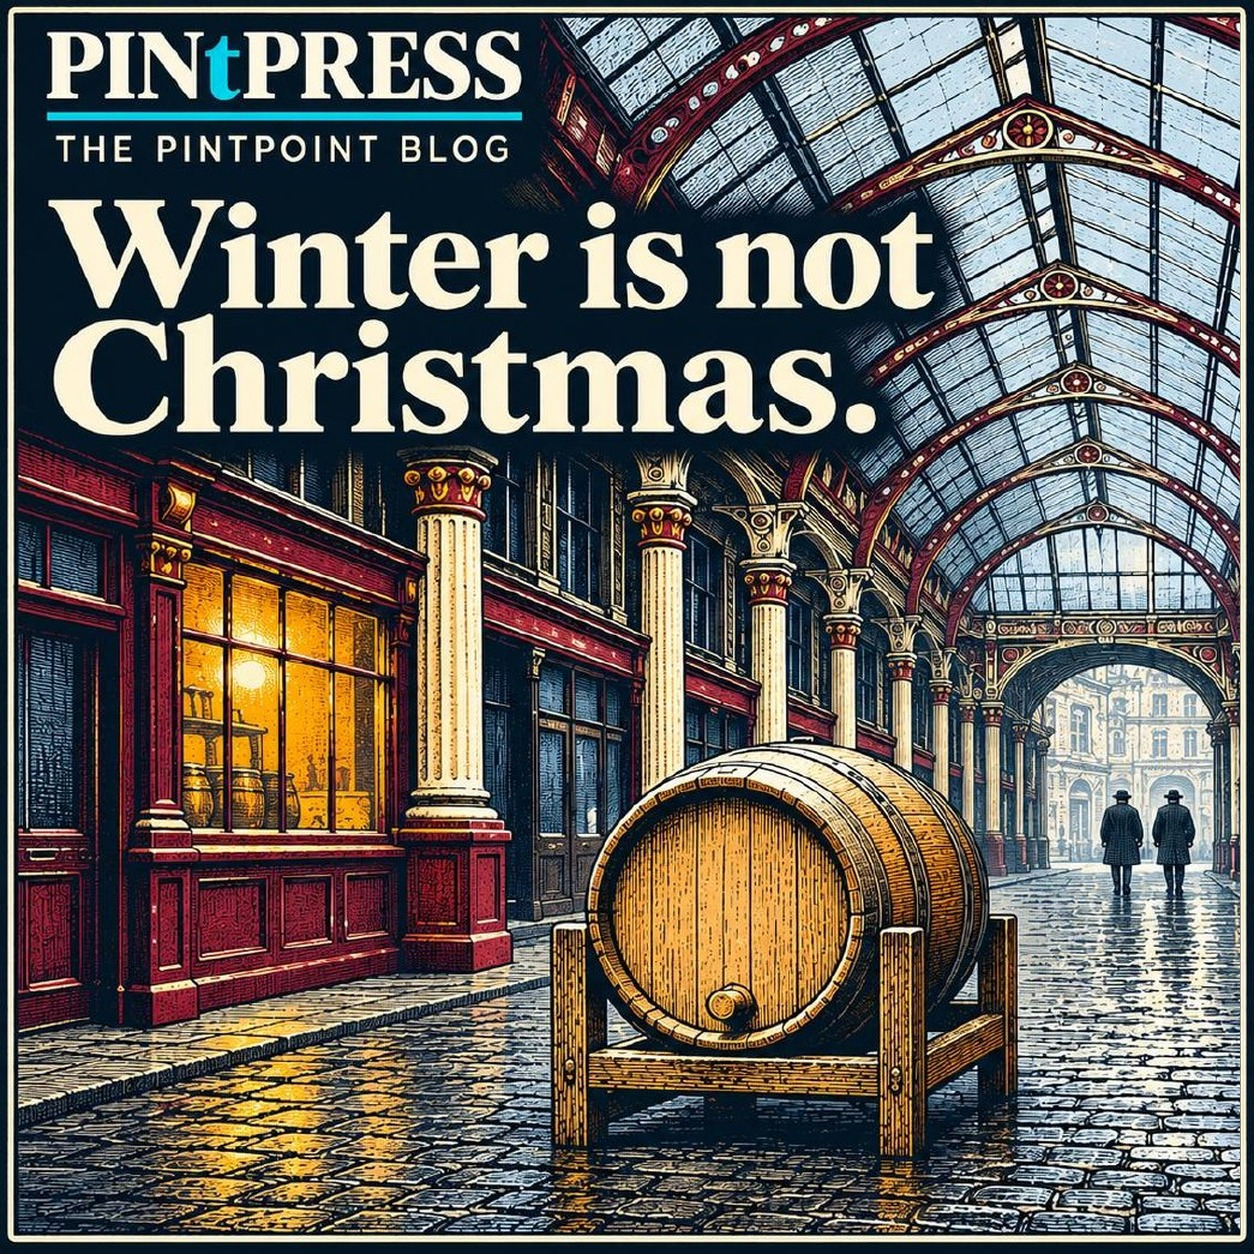
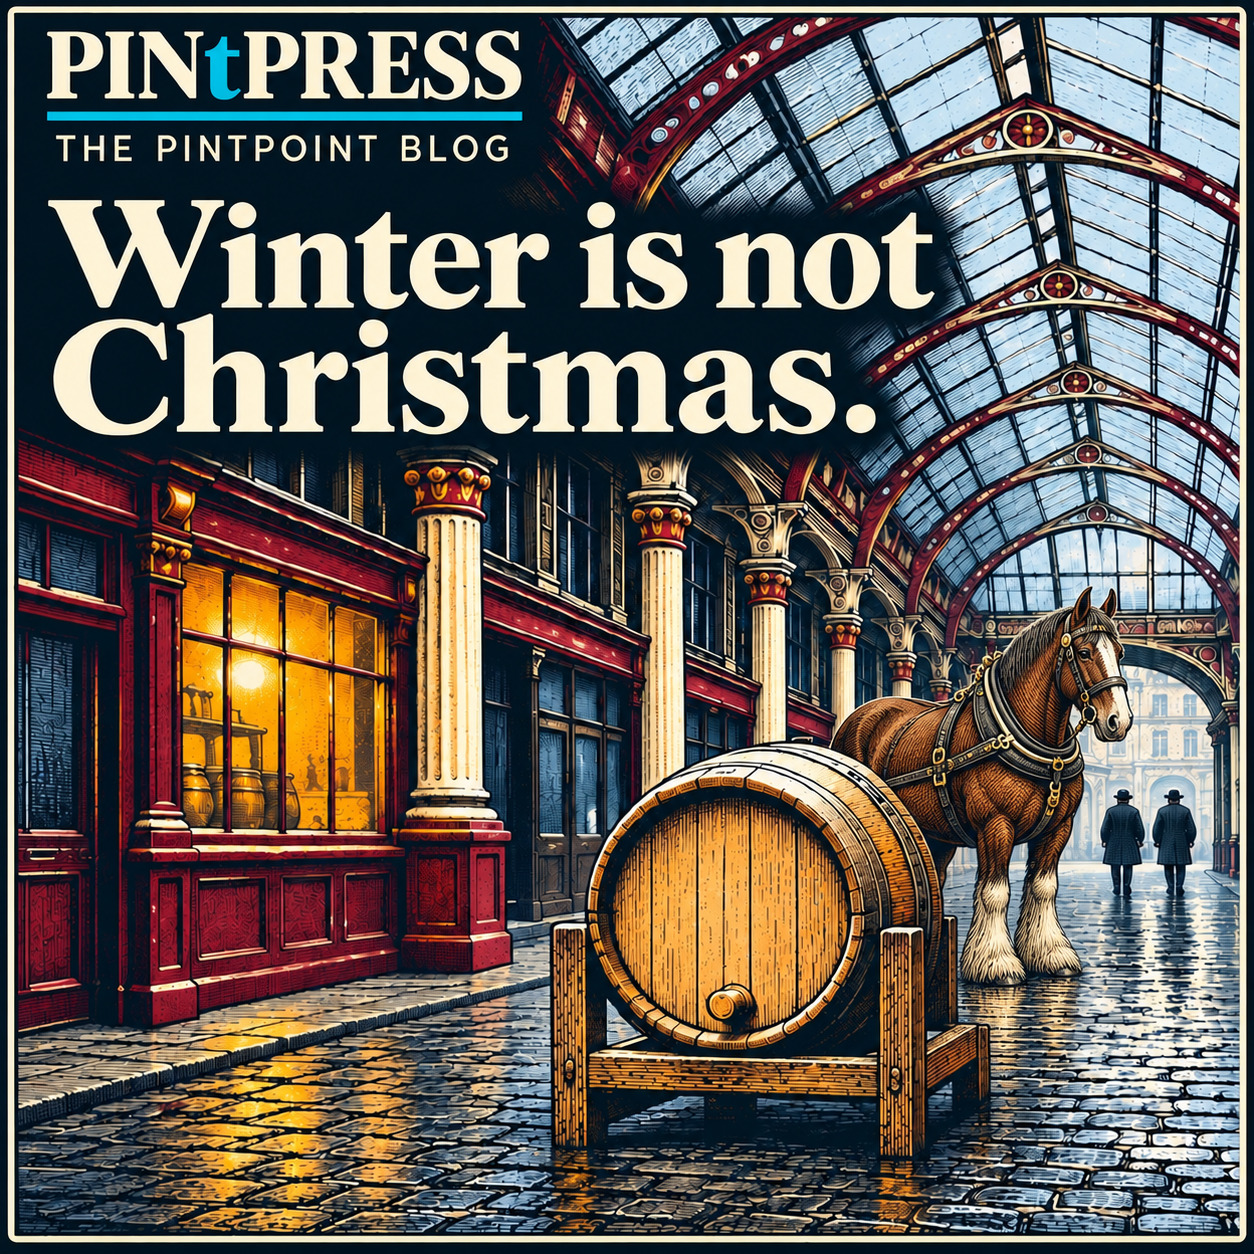
Winter is not Christmas: the shire horse version
New art from Paul, built from the source PNG. The frame is complete and
symmetric in this one, left and right both carrying the dark margin and
the cream rule, so the mirrored repair in 1091d6b is superseded by a
properly generated edge rather than a patched one.

The alt gains the horse and the cask, which are now the foreground, and
loses "October morning": the overcast light reads from the picture, the
month does not.

diff --git a/blog/drafts/winter-is-not-christmas.html b/blog/drafts/winter-is-not-christmas.html
@@ -17,7 +17,7 @@
   <meta property="og:image:height" content="628" />
   <meta property="og:image:type" content="image/jpeg" />
   <meta property="og:image" content="https://pintpoint.co.uk/blog/images/winter-is-not-christmas-x.jpg" />
-  <meta property="og:image:alt" content="PINtPRESS card: the glazed roof and painted cast-iron columns of a Victorian market arcade on an overcast October morning, with the headline across the left." />
+  <meta property="og:image:alt" content="PINtPRESS card: the glazed roof and painted cast-iron columns of a Victorian market arcade under an overcast sky, a shire horse beside a wooden cask on a stillage, and the headline across the left." />
   <meta name="twitter:card" content="summary_large_image" />
   <meta name="twitter:image" content="https://pintpoint.co.uk/blog/images/winter-is-not-christmas-x.jpg" />
   <link rel="preconnect" href="https://fonts.googleapis.com" />
